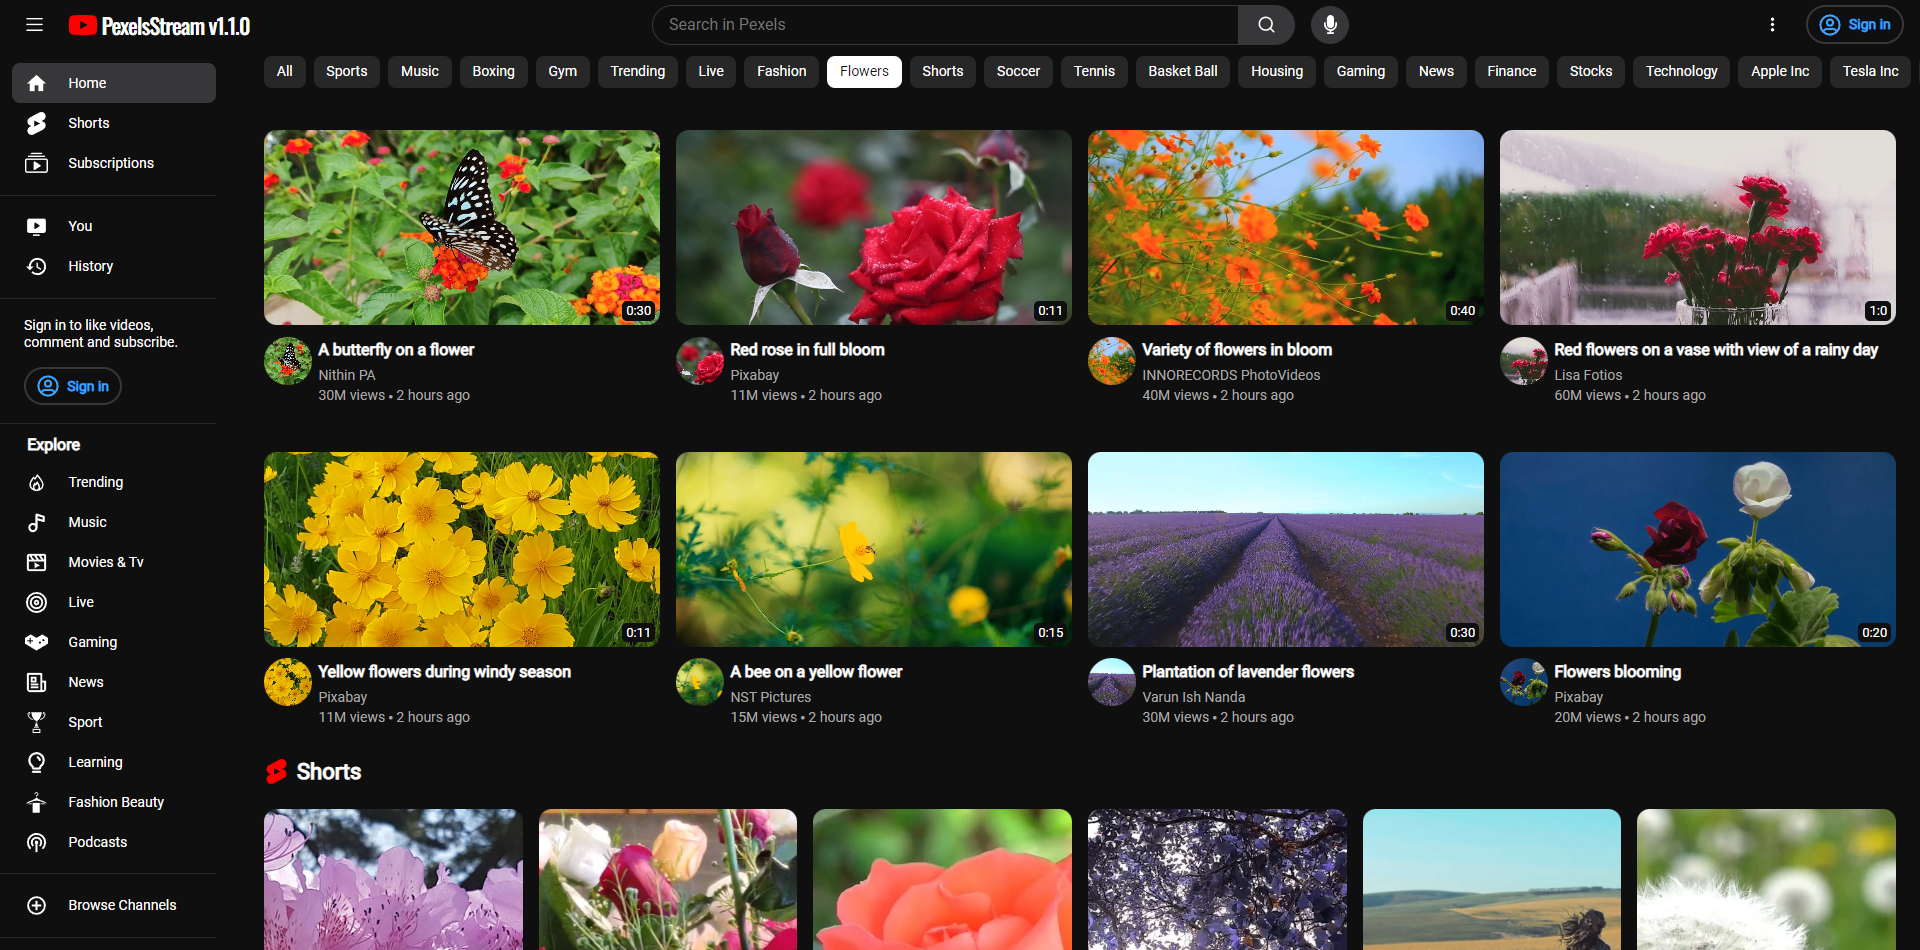
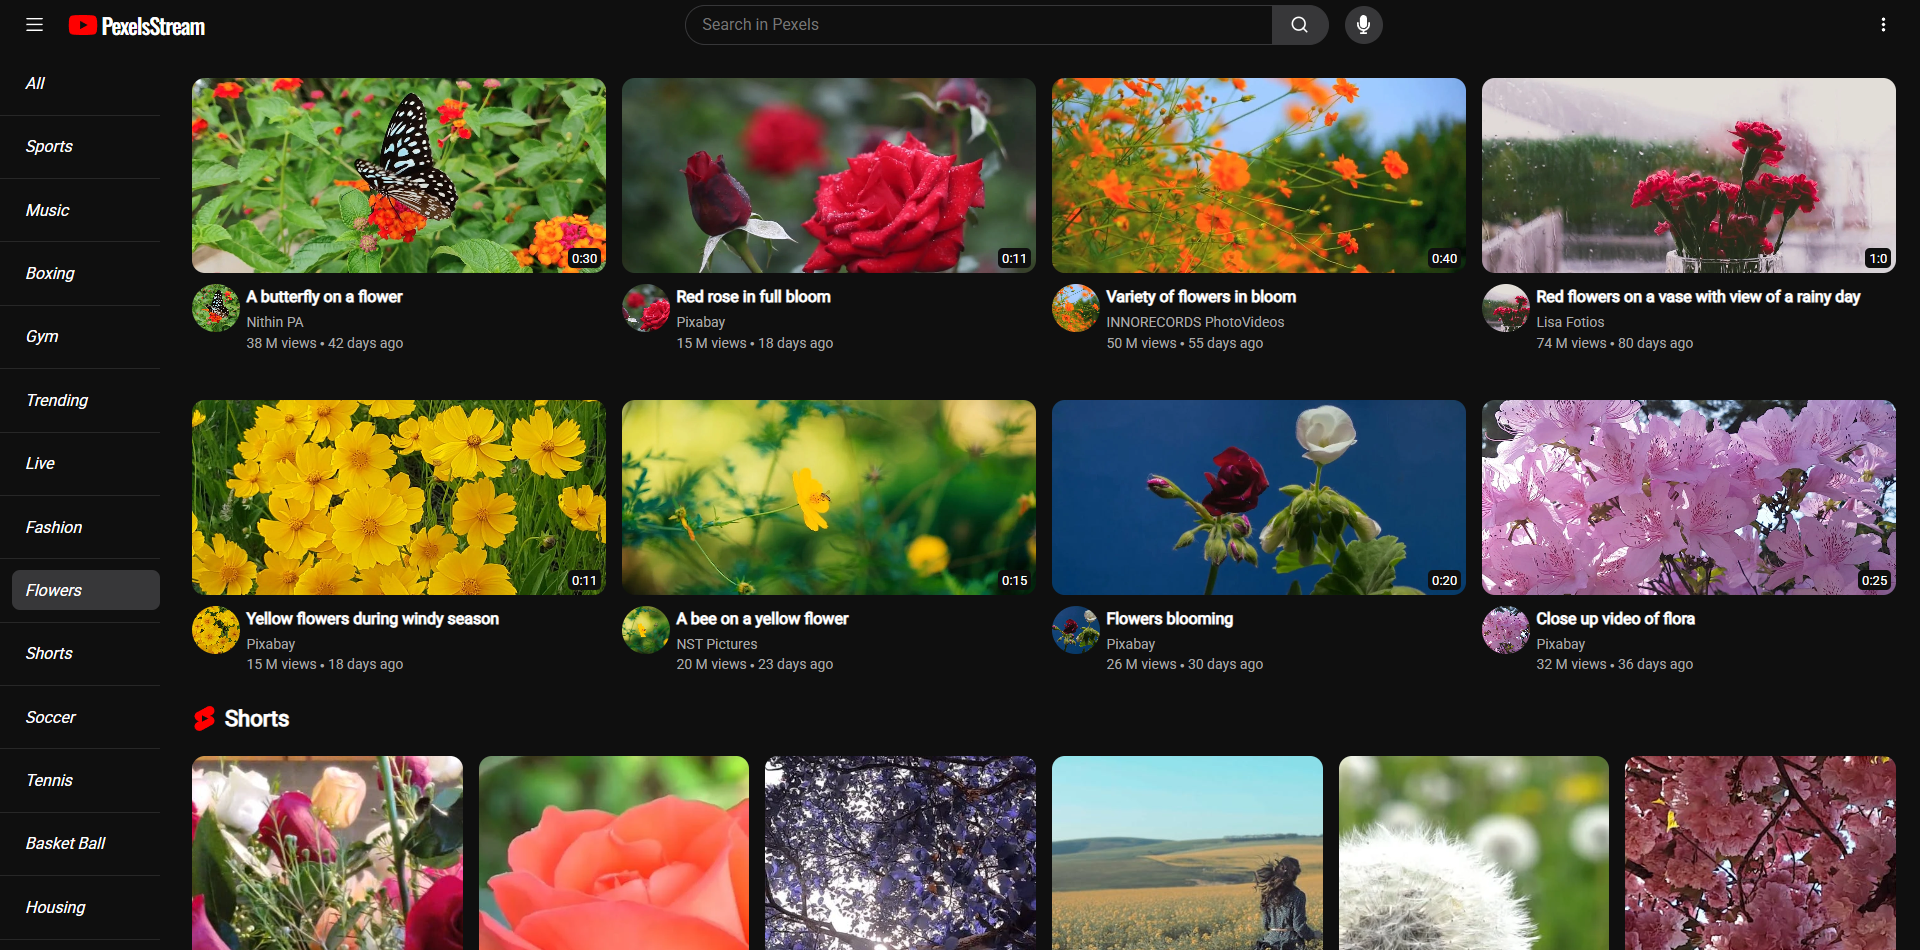
PEXELS STREAM 1.3.0
Update Menu Categories
Update Menu.tsx
Update Header.tsx
Update index.html
Update Content.tsx
Update Text.styles.ts
Update Body.styles.ts
Update HomepageVideos.styles.ts
Update WatchVideoContents.styles.ts
Delete AuthButton.styles.ts
Delete AuthButton.tsx

diff --git a/src/components/menu/Menu.tsx b/src/components/menu/Menu.tsx
@@ -1,13 +1,20 @@
 import React from "react";
 import { LargeMenuSection, MenuItem, StyledMenu } from "./Menu.styles";
 import { useAppContext } from "../../context/App.context";
+// eslint-disable-next-line @typescript-eslint/no-unused-vars
 import { MENU_LARGE, MENU_SMALL } from "../../utils/SideMenu";
 import { Text } from "../../utils/Text.styles";
+import { CATEGORIES } from "../../utils/categories";
 import { ITranslations } from "../../utils/translations";
-import AuthButton from "../authButton/AuthButton";
 
 const Menu = () => {
-  const { isMenuSmall, text, activeMenuText } = useAppContext();
+  const {
+    isMenuSmall,
+    text,
+    activeMenuText,
+    activeCategory,
+    setActiveCategory,
+  } = useAppContext();
   if (isMenuSmall) {
     return (
       <StyledMenu>
@@ -31,39 +38,57 @@ const Menu = () => {
   } else {
     return (
       <StyledMenu>
-        {MENU_LARGE.map(({ title, list }, index) => (
-          <div key={title}>
+        {CATEGORIES.map((name, index) => (
+          <div key={name}>
             <LargeMenuSection>
-              {title && (
-                <Text className="title">
-                  {text[title as keyof ITranslations]}
+              <MenuItem
+                active={
+                  name.toLowerCase() === activeCategory.toLowerCase()
+                    ? "true"
+                    : "false"
+                }
+                className="large"
+                key={name}
+                onClick={() => setActiveCategory(name)}
+              >
+                <Text className="category">
+                  {text[name as keyof ITranslations]}
                 </Text>
-              )}
-              <>
-                {list.map(({ name, icon }) => (
-                  <MenuItem
-                    active={
-                      activeMenuText.toLowerCase() ===
-                      text[name as keyof ITranslations].toLowerCase()
-                        ? "true"
-                        : "false"
-                    }
-                    className="large"
-                    key={name}
-                  >
-                    {icon}
-                    <Text>{text[name as keyof ITranslations]}</Text>
-                  </MenuItem>
-                ))}
-              </>
+              </MenuItem>
             </LargeMenuSection>
-            {index === 1 && (
-              <LargeMenuSection className="text">
-                <Text>{text.signInMenuText}</Text>
-                <AuthButton />
-              </LargeMenuSection>
-            )}
           </div>
+          // <div key={title}>
+          //   <LargeMenuSection>
+          //     {title && (
+          //       <Text className="title">
+          //         {text[title as keyof ITranslations]}
+          //       </Text>
+          //     )}
+          //     <>
+          //       {list.map(({ name, icon }) => (
+          //         <MenuItem
+          //           active={
+          //             activeMenuText.toLowerCase() ===
+          //             text[name as keyof ITranslations].toLowerCase()
+          //               ? "true"
+          //               : "false"
+          //           }
+          //           className="large"
+          //           key={name}
+          //         >
+          //           {icon}
+          //           <Text>{text[name as keyof ITranslations]}</Text>
+          //         </MenuItem>
+          //       ))}
+          //     </>
+          //   </LargeMenuSection>
+          //   {index === 1 && (
+          //     <LargeMenuSection className="text">
+          //       <Text>{text.signInMenuText}</Text>
+          //       <AuthButton />
+          //     </LargeMenuSection>
+          //   )}
+          // </div>
         ))}
       </StyledMenu>
     );

diff --git a/src/components/header/Header.tsx b/src/components/header/Header.tsx
@@ -12,7 +12,6 @@ import { Icon } from "../../utils/Icon.styles";
 import { SlMenu } from "react-icons/sl";
 import { FaMicrophone, FaYoutube } from "react-icons/fa";
 import { LuSearch } from "react-icons/lu";
-import AuthButton from "../authButton/AuthButton";
 import { CgMoreVerticalAlt } from "react-icons/cg";
 import Settings from "../Settings/Settings";
 import { useAppContext } from "../../context/App.context";
@@ -56,7 +55,7 @@ const Header = () => {
         </Icon>
         <LogoSection to="/">
           <FaYoutube color="#FF0000" size={30} />
-          <Text className="logo">PexelsStream v1.1.0</Text>
+          <Text className="logo">PexelsStream</Text>
         </LogoSection>
       </LeftSection>
       <SearchSection>
@@ -94,7 +93,6 @@ const Header = () => {
         >
           <CgMoreVerticalAlt size={21} />
         </Icon>
-        <AuthButton />
         {showSettings && <Settings setShowSettings={setShowSettings} />}
       </HeaderMoreSection>
     </StyledHeader>

diff --git a/src/components/content/Content.tsx b/src/components/content/Content.tsx
@@ -1,6 +1,6 @@
 import React from "react";
 import { LoadingBackdrop, StyledContent } from "./Content.styles";
-import Categories from "../categories/Categories";
+// import Categories from "../categories/Categories";
 import { useAppContext } from "../../context/App.context";
 import HomepageVideos from "../homepageVideos/HomepageVideos";
 
@@ -8,7 +8,7 @@ const Content = () => {
   const { isFetchingVideos } = useAppContext();
   return (
     <StyledContent>
-      <Categories />
+      {/* <Categories /> */}
       <HomepageVideos />
       {isFetchingVideos && <LoadingBackdrop />}
     </StyledContent>

diff --git a/public/index.html b/public/index.html
@@ -5,10 +5,7 @@
     <link rel="icon" href="%PUBLIC_URL%/PexelsStream Logo.png" />
     <meta name="viewport" content="width=device-width, initial-scale=1" />
     <meta name="theme-color" content="#000000" />
-    <meta
-      name="description"
-      content="Web site created using create-react-app"
-    />
+    <meta name="description" />
     <link rel="apple-touch-icon" href="%PUBLIC_URL%/logo192.png" />
     <link rel="manifest" href="%PUBLIC_URL%/manifest.json" />
     <!-- Google Fonts -->

diff --git a/src/components/body/Body.styles.ts b/src/components/body/Body.styles.ts
@@ -5,6 +5,6 @@ export const StyledBody = styled.div<{ $isMenuSmall: boolean }>`
   height: 94.2vh;
   display: grid;
   grid-template-columns: ${({ $isMenuSmall }) =>
-    $isMenuSmall ? "4.3rem 1fr" : "13.5rem 1fr"};
-  gap: ${({ $isMenuSmall }) => ($isMenuSmall ? "1.5rem" : "3rem")};
+    $isMenuSmall ? "4.3rem 1fr" : "10rem 1fr"};
+  gap: ${({ $isMenuSmall }) => ($isMenuSmall ? "1.5rem" : "2rem")};
 `;

diff --git a/src/components/watchVideoContents/WatchVideoContents.styles.ts b/src/components/watchVideoContents/WatchVideoContents.styles.ts
@@ -2,7 +2,7 @@ import styled from "styled-components";
 
 export const StyledWatchVideoContents = styled.div`
   width: 100%;
-  height: 94.2vh;
+  height: 100vh;
   display: grid;
   gap: 1.5vw;
   grid-template-columns: 71.5vw 24vw;

diff --git a/src/components/homepageVideos/HomepageVideos.styles.ts b/src/components/homepageVideos/HomepageVideos.styles.ts
@@ -2,7 +2,7 @@ import styled from "styled-components";
 
 export const StyledHomepageVideos = styled.div`
   overflow-y: scroll;
-  height: 88.7vh;
+  height: 100vh;
   padding: 1.6rem 1.5rem 2rem 0;
 `;
 

diff --git a/src/utils/Text.styles.ts b/src/utils/Text.styles.ts
@@ -13,4 +13,8 @@ export const Text = styled.p`
     color: ${(props) => props.theme.authBlue};
     font-weight: bold;
   }
+  &.category {
+    font-size: 16px;
+    font-style: italic;
+  }
 `;

diff --git a/README.md b/README.md
@@ -12,7 +12,7 @@
 
 - **STACK :**
 
-  - **PEXELS STREAM** : `1.2.0`
+  - **PEXELS STREAM** : `1.3.0`
   - **FAKER** : `8.4.1`
   - **REACT** : `18.2.0`
   - **PEXELS** : `1.4.0`
